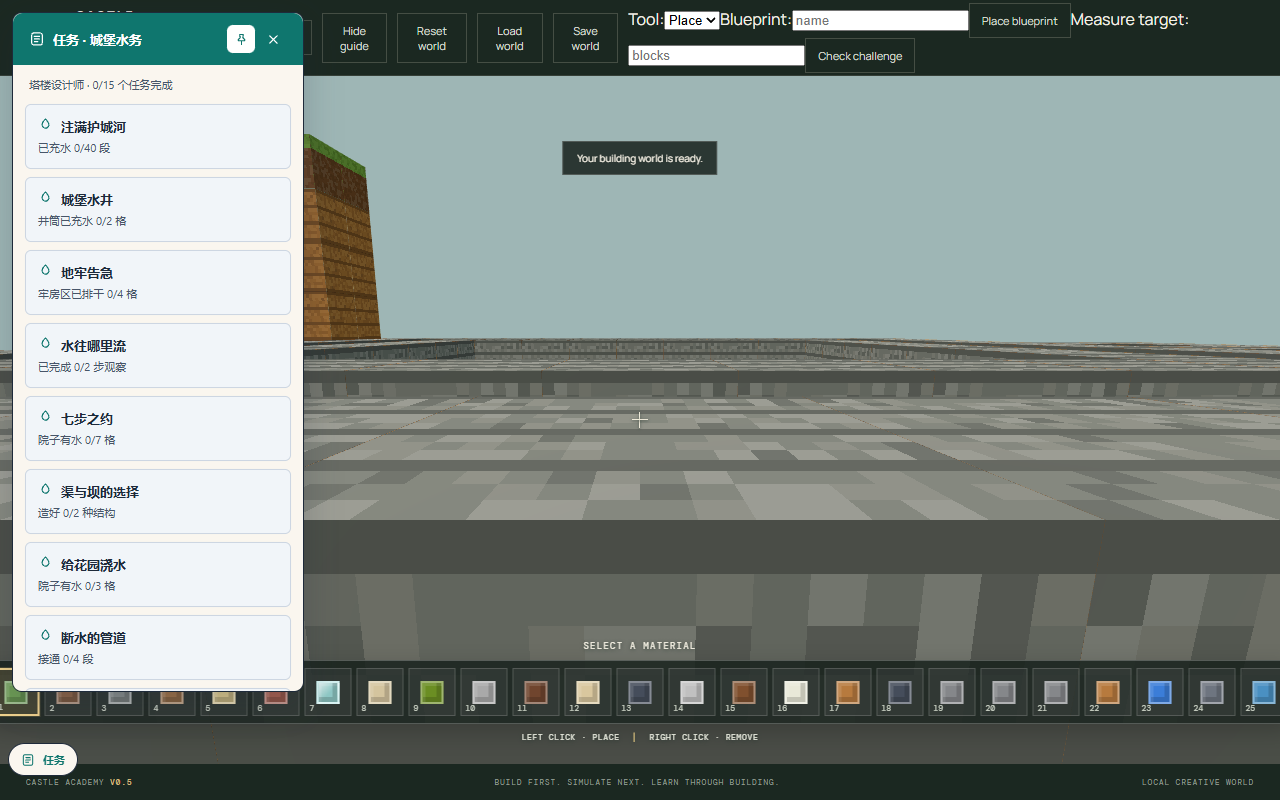
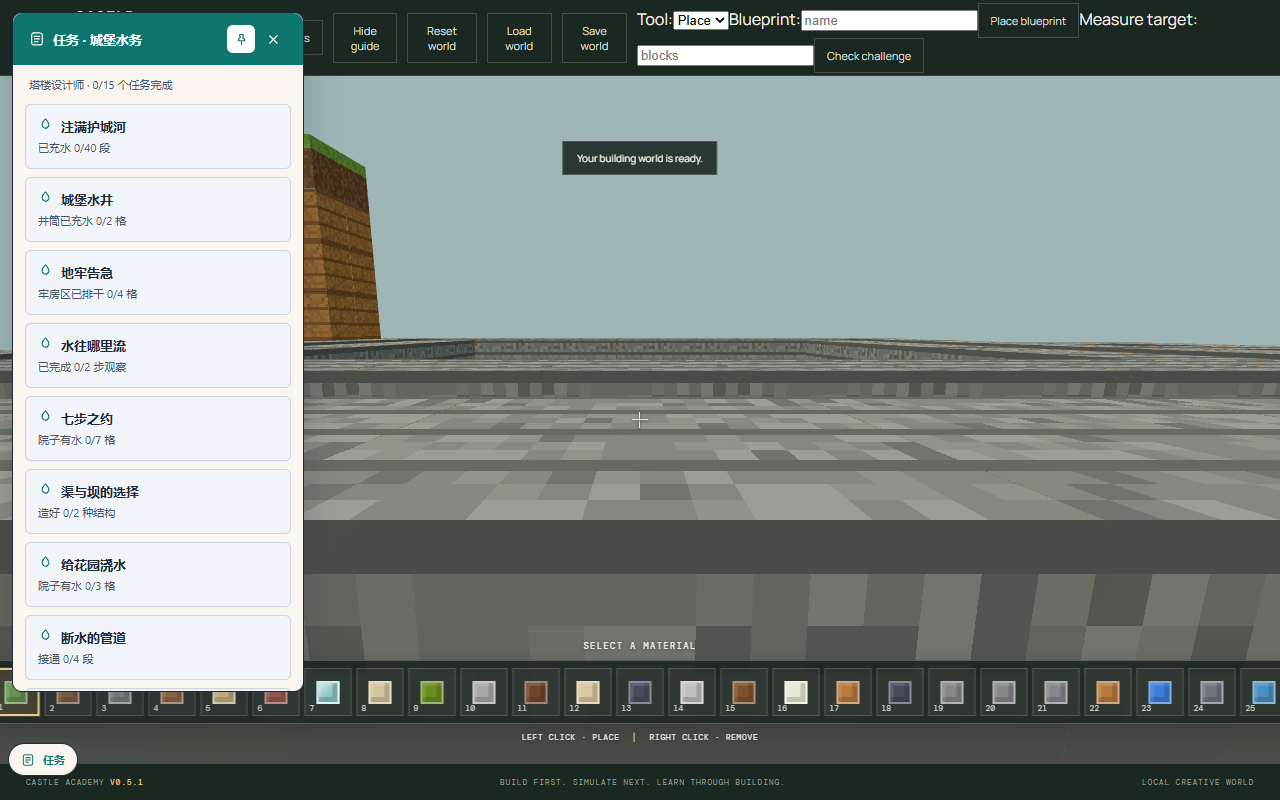
docs: 同步应用内版本标识到 V0.5.1，重截 canonical 截图
App.tsx 顶栏/页脚 V0.5→V0.5.1；HelpPanel 1—7→1—9（与实际键位及 README 一致）。发布后回归：typecheck 0 / 215 单测 / build 0 / 47 E2E 全绿。按 V51-017 先例非静默重截 S1~S8 共 11 张；worldCanvas 仍 0 像素差，topbar/footer 差异为 HUD 文本预期变化。tag v0.5.1 不移动。

diff --git a/src/app/App.tsx b/src/app/App.tsx
@@ -150,7 +150,7 @@ export function App() {
           </div>
         </div>
         <div className="topbar-right">
-          <span className="version-pill">V0.5</span>
+          <span className="version-pill">V0.5.1</span>
           <button className="subtle-button" onClick={() => setLayerPanelOpen((v) => !v)}>
             {layerPanelOpen ? "Hide layers" : "Layers"}
           </button>
@@ -414,7 +414,7 @@ export function App() {
       <MissionExperience gameRef={gameRef} />
 
       <footer className="footer">
-        <span>CASTLE ACADEMY <b>V0.5</b></span>
+        <span>CASTLE ACADEMY <b>V0.5.1</b></span>
         <span>BUILD FIRST. SIMULATE NEXT. LEARN THROUGH BUILDING.</span>
         <span>LOCAL CREATIVE WORLD</span>
       </footer>

diff --git a/src/ui/HelpPanel.tsx b/src/ui/HelpPanel.tsx
@@ -10,7 +10,7 @@ export function HelpPanel({ onClose }: Props) {
       <div className="control-row"><kbd>MOUSE</kbd><span>Look around</span></div>
       <div className="control-row"><kbd>SPACE</kbd><span>Move up</span></div>
       <div className="control-row"><kbd>SHIFT</kbd><span>Move faster / descend with right Shift</span></div>
-      <div className="control-row"><kbd>1 — 7</kbd><span>Choose a block</span></div>
+      <div className="control-row"><kbd>1 — 9</kbd><span>Choose a block</span></div>
       <div className="control-row"><kbd>LEFT CLICK</kbd><span>Place a block</span></div>
       <div className="control-row"><kbd>RIGHT CLICK</kbd><span>Remove a block</span></div>
       <p>Press <kbd>ESC</kbd> to release the mouse.</p>

diff --git a/docs/v0.51/V0.51_Final_Release_Review.md b/docs/v0.51/V0.51_Final_Release_Review.md
@@ -33,7 +33,7 @@
 | V0.5 回归 | `water-quests.spec.ts` 等 20 个基线用例 | 一行未改全绿 |
 | 验收 | `V0.51_Acceptance_Report.md` | AC-201~232 **全 PASS** |
 | 独立测试者 B | `V0.51_Tester_Report_GATE2.md` | **FULLY SATISFIED**（GATE-2） |
-| 视觉回归 | `screenshots/diffs/visual-regression.json` | `worldCanvas` **0 像素差**；总差 1.029%，topbar 9.681% 为 O-1 |
+| 视觉回归 | `screenshots/diffs/visual-regression.json` | `worldCanvas` **0 像素差**；总差 1.029%，topbar 9.681% 为 O-1（**发布后标识同步后重测数据见 §7**） |
 | 性能 | `V0.51_Performance_Report.md` | 帧时间 **+0.13%**（≤5%）、draw calls **329→329**、交互/档案全达标 |
 | 数据安全 | localStorage 抽查 | 仅 `castle-academy-world-v1` / `castle.academy.learner`，两 JSON 互无对方字段 |
 
@@ -43,7 +43,7 @@
 
 | 步骤 | 结果 |
 |------|------|
-| 版本号 | `package.json` / `package-lock.json` `0.5.0 → 0.5.1`；UI 的 `V0.5` 作为产品系列标识保留（沿用 V0.5.0 先例） |
+| 版本号 | `package.json` / `package-lock.json` `0.5.0 → 0.5.1`；发布当时 UI 的 `V0.5` 作为产品系列标识保留（沿用 V0.5.0 先例），**发布后按 owner 指示已同步为 `V0.5.1`，见 §7** |
 | release commit | `0821dbf` |
 | tag | `v0.5.1`（annotated，`16363602` → `0821dbf`） |
 | 分支 | 本地 `master` 以 `--ff-only` 从 `97fb9b7` 快进到 `0821dbf`（此前落后 `origin/master` 12）；功能分支保留同点 |
@@ -84,7 +84,7 @@ Castle Academy V0.51 — Mission Experience Foundation
 
 ## 已知限制
 - 迁移期保留旧 quest-panel / CastleQuestPlugin / quest.* 事件，以守住 V0.5 基线回归
-- 顶栏 9.681% 视觉差异源自既有外链字体（O-1），留 V0.6 独立 DDR 处理
+- 顶栏视觉差异源自既有外链字体（O-1）与版本标识同步，留 V0.6 独立 DDR 处理
 - 软件渲染下 329 draw calls 导致低帧率，属 V0.5 既有问题，非本版引入
 
 报告：docs/v0.51/V0.51_Acceptance_Report.md、docs/v0.51/V0.51_Performance_Report.md
@@ -98,6 +98,50 @@ gh release create v0.5.1 --title "Castle Academy V0.51 — 任务体验基础" -
 
 ---
 
-## 6. 判定
+## 6. 发布后修订：应用内标识同步（2026-11-10 19:20）
 
-**RELEASED（附一项外部阻塞）** —— 版本、commit、tag、master、远端推送全部完成，工作树干净，发布前全量验证通过。唯一未完成项为 GitHub **Release 页面**，受 fine-grained PAT 权限限制（403），不影响代码、tag 与可交付版本。
+**触发：** owner「同步应用内标识」。目标是让 GitHub README（已更新到 0.5.1）与应用内展示、帮助说明完全一致。
+
+| 文件 | 位置 | 变更 |
+|------|------|------|
+| `src/app/App.tsx` | `:153` 顶栏 `.version-pill` | `V0.5` → `V0.5.1` |
+| `src/app/App.tsx` | `:417` 页脚 | `CASTLE ACADEMY V0.5` → `… V0.5.1` |
+| `src/ui/HelpPanel.tsx` | `:13` 热栏说明 | `1 — 7` → `1 — 9`（实际键位 `Number(event.key)-1`，25 方块中前 9 个可数字键直选，其余点击热栏；与 README 一致） |
+
+源码注释 / 测试名中的 `V0.5` 指**版本契约与迁移来源**（如 `castleQuests.ts` 兼容层、`evaluators.ts` 原样迁移段），是历史事实描述，保持不变。
+
+### 6.1 回归复核（全部重跑）
+
+| 检查 | 结果 |
+|------|------|
+| typecheck / 单测 / build | exit 0 / 28 文件 **215 passed** / exit 0 |
+| E2E 首轮 | 45 passed，**2 个 `page.goto` 等 `load` 超时**（`first-playable` 与 `v051-mission-foundation` 的损坏档案用例） |
+| 失败归因 | 错误上下文显示 DOM 已渲染且 `V0.5.1` 可见，是外链字体 + 软件渲染下的 `load` 事件抖动（D-1 已知），**非断言失败、非改动引入**；两用例单独重跑 2 passed |
+| E2E 全量复跑 | **47 passed / 4.8m**，一次全绿（含 V0.5 基线 20 个一行未改） |
+| 浏览器实测文本 | `.version-pill` = `V0.5.1`；页脚 = `CASTLE ACADEMY V0.5.1`；帮助面板 = `1 — 9 / Choose a block`，无 `1 — 7` 残留 |
+
+### 6.2 canonical 重截（明确登记，非静默替换）
+
+版本号是应用内可见文本，改动后 GATE-2 owner 已确认的 S1~S8 截图与新运行时不一致。按 V51-017 先例，用 `scripts/v051-visual-regression.mjs` **完整运行**（非 `--clean-only`）重截 S1~S8 与两张世界锚点，共 11 张，并同步更新 `diffs/visual-regression.json`。
+
+| 分区 | 重截前 | 重截后 | 归因 |
+|------|--------|--------|------|
+| **worldCanvas** | 0% | **0%** | 渲染零改动红线保持满足 |
+| topbar | 9.681% | 10.206% | +0.525pp，`.version-pill` 多 2 字符；主体仍为 O-1 外链字体 |
+| footer | 0% | 2.849% | 页脚版本号文本变更，**预期变化** |
+| questPanel | 0.01% | 0.01% | 不变 |
+| 全图 | 1.029% | 1.227% | 全部来自上述 HUD 文本 |
+
+结论：**HUD 文本差异是本次标识同步的预期结果，不是渲染或布局回归**；两张截图目视复核版本胶囊与顶栏按钮排列正常、无重叠挤压。
+
+### 6.3 发布对象影响
+
+- tag `v0.5.1` 仍指向 `0821dbf`，**不移动已发布标签**（与 README 修正 `3af06a8` 同属 master 上的后续提交）。
+- GitHub 默认展示 `master` 的 README；应用内改动随 master 生效，不影响 tag / release commit / 远端推送状态。
+- Release 页仍受 403 阻塞，notes 已按最新数据更新（§5）。
+
+---
+
+## 7. 判定
+
+**RELEASED（附一项外部阻塞）** —— 版本、commit、tag、master、远端推送全部完成，工作树干净，发布前全量验证通过。唯一未完成项为 GitHub **Release 页面**，受 fine-grained PAT 权限限制（403），不影响代码、tag 与可交付版本。发布后的标识同步已通过全量回归与视觉回归复核，不改变判定。
